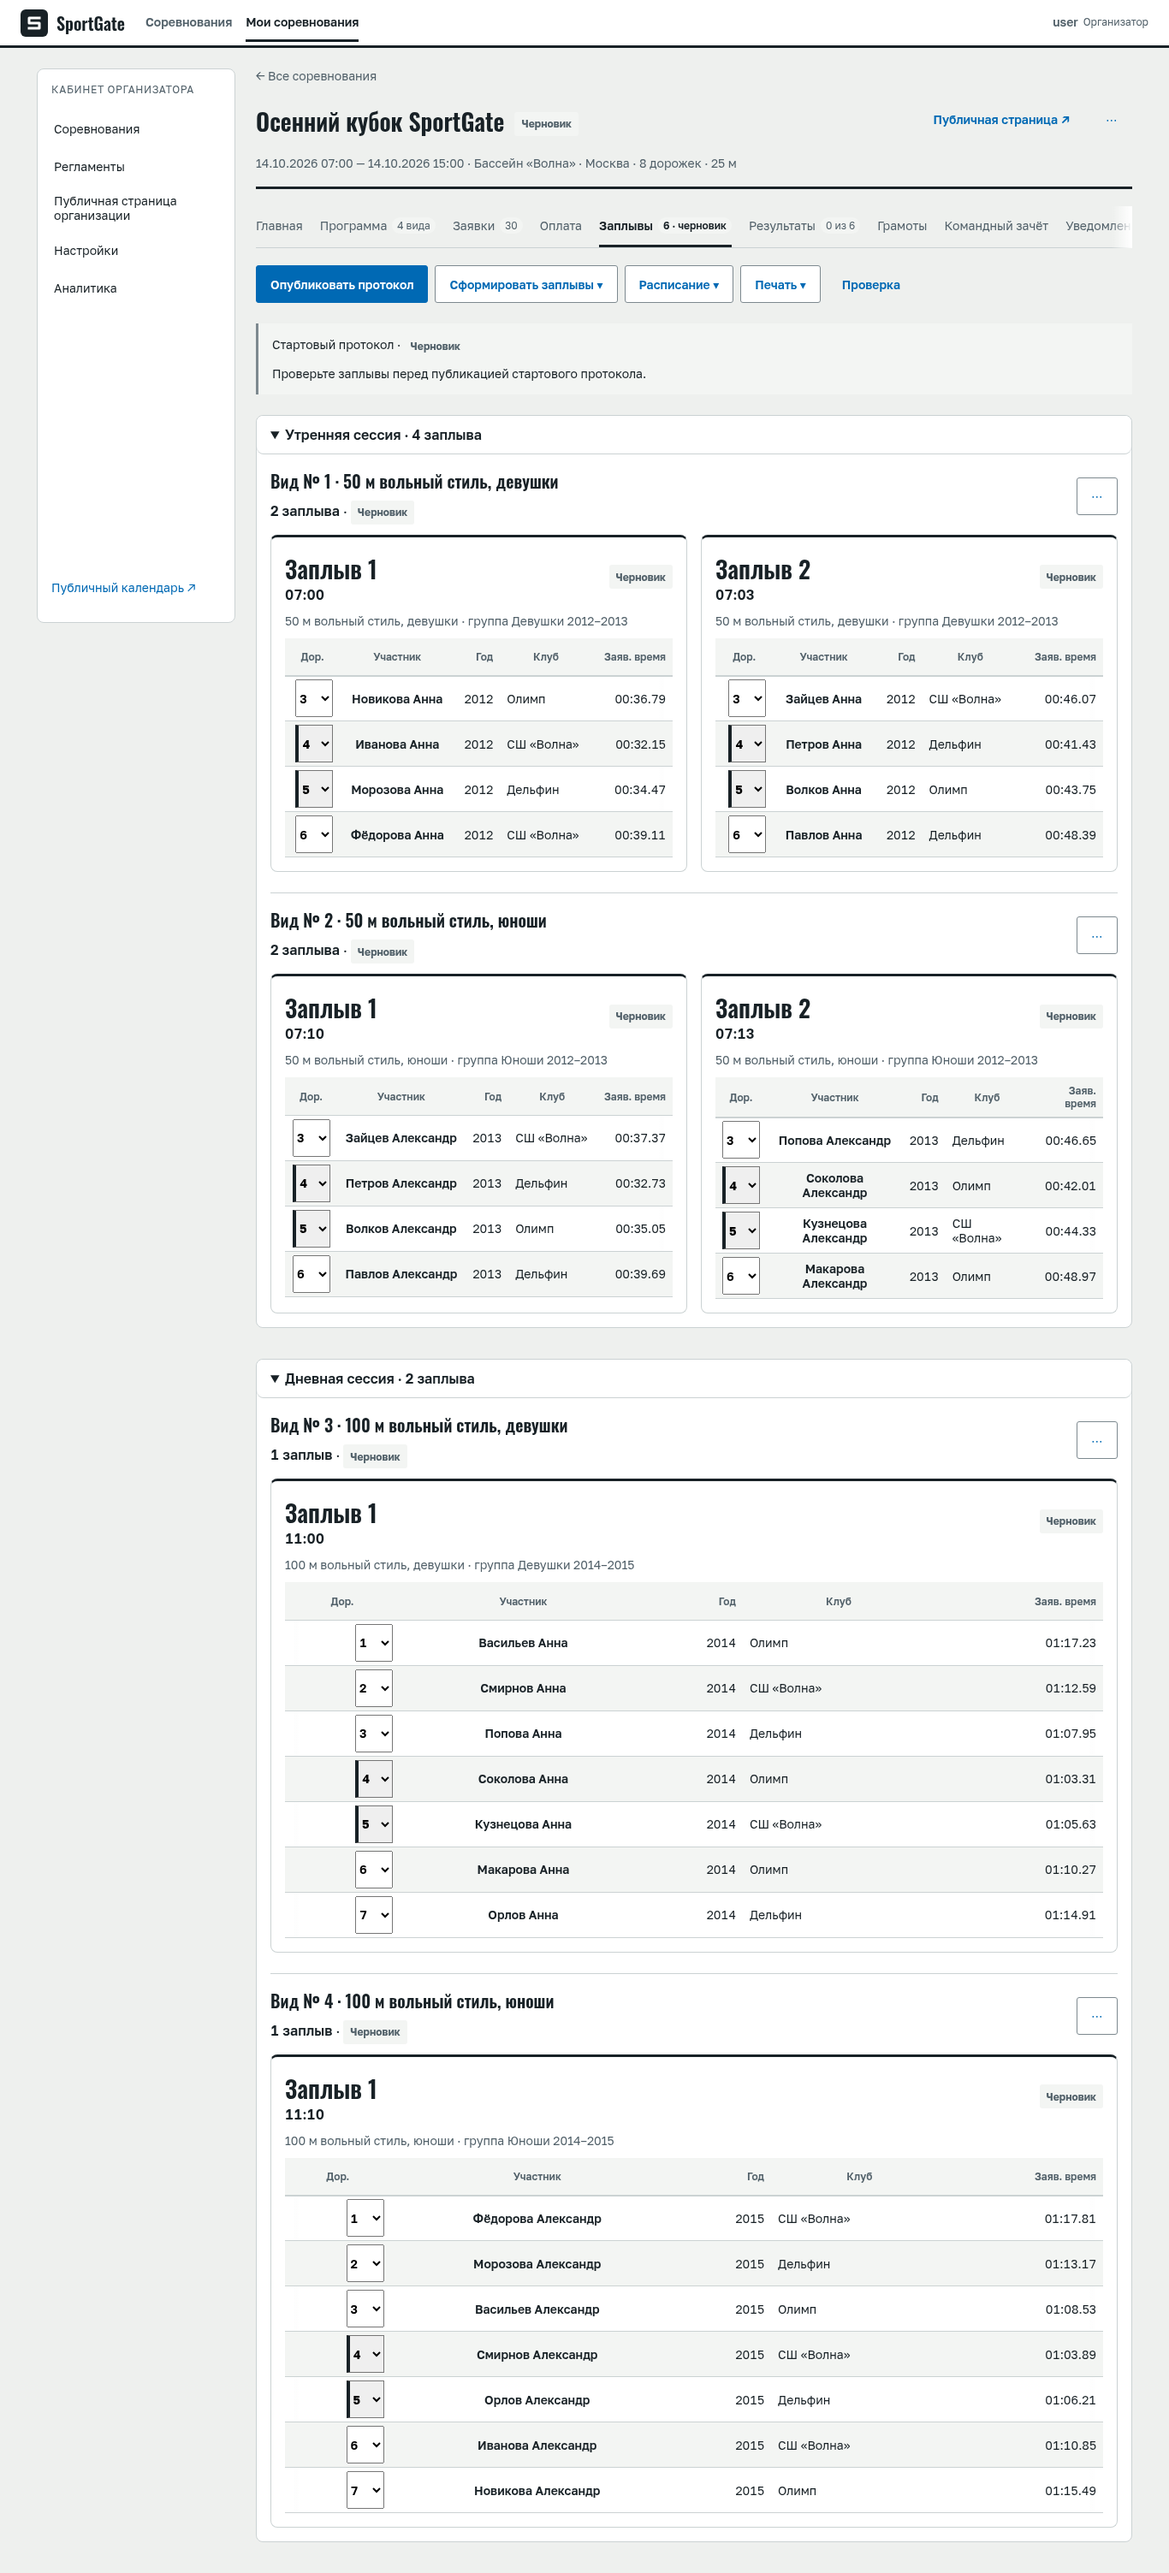
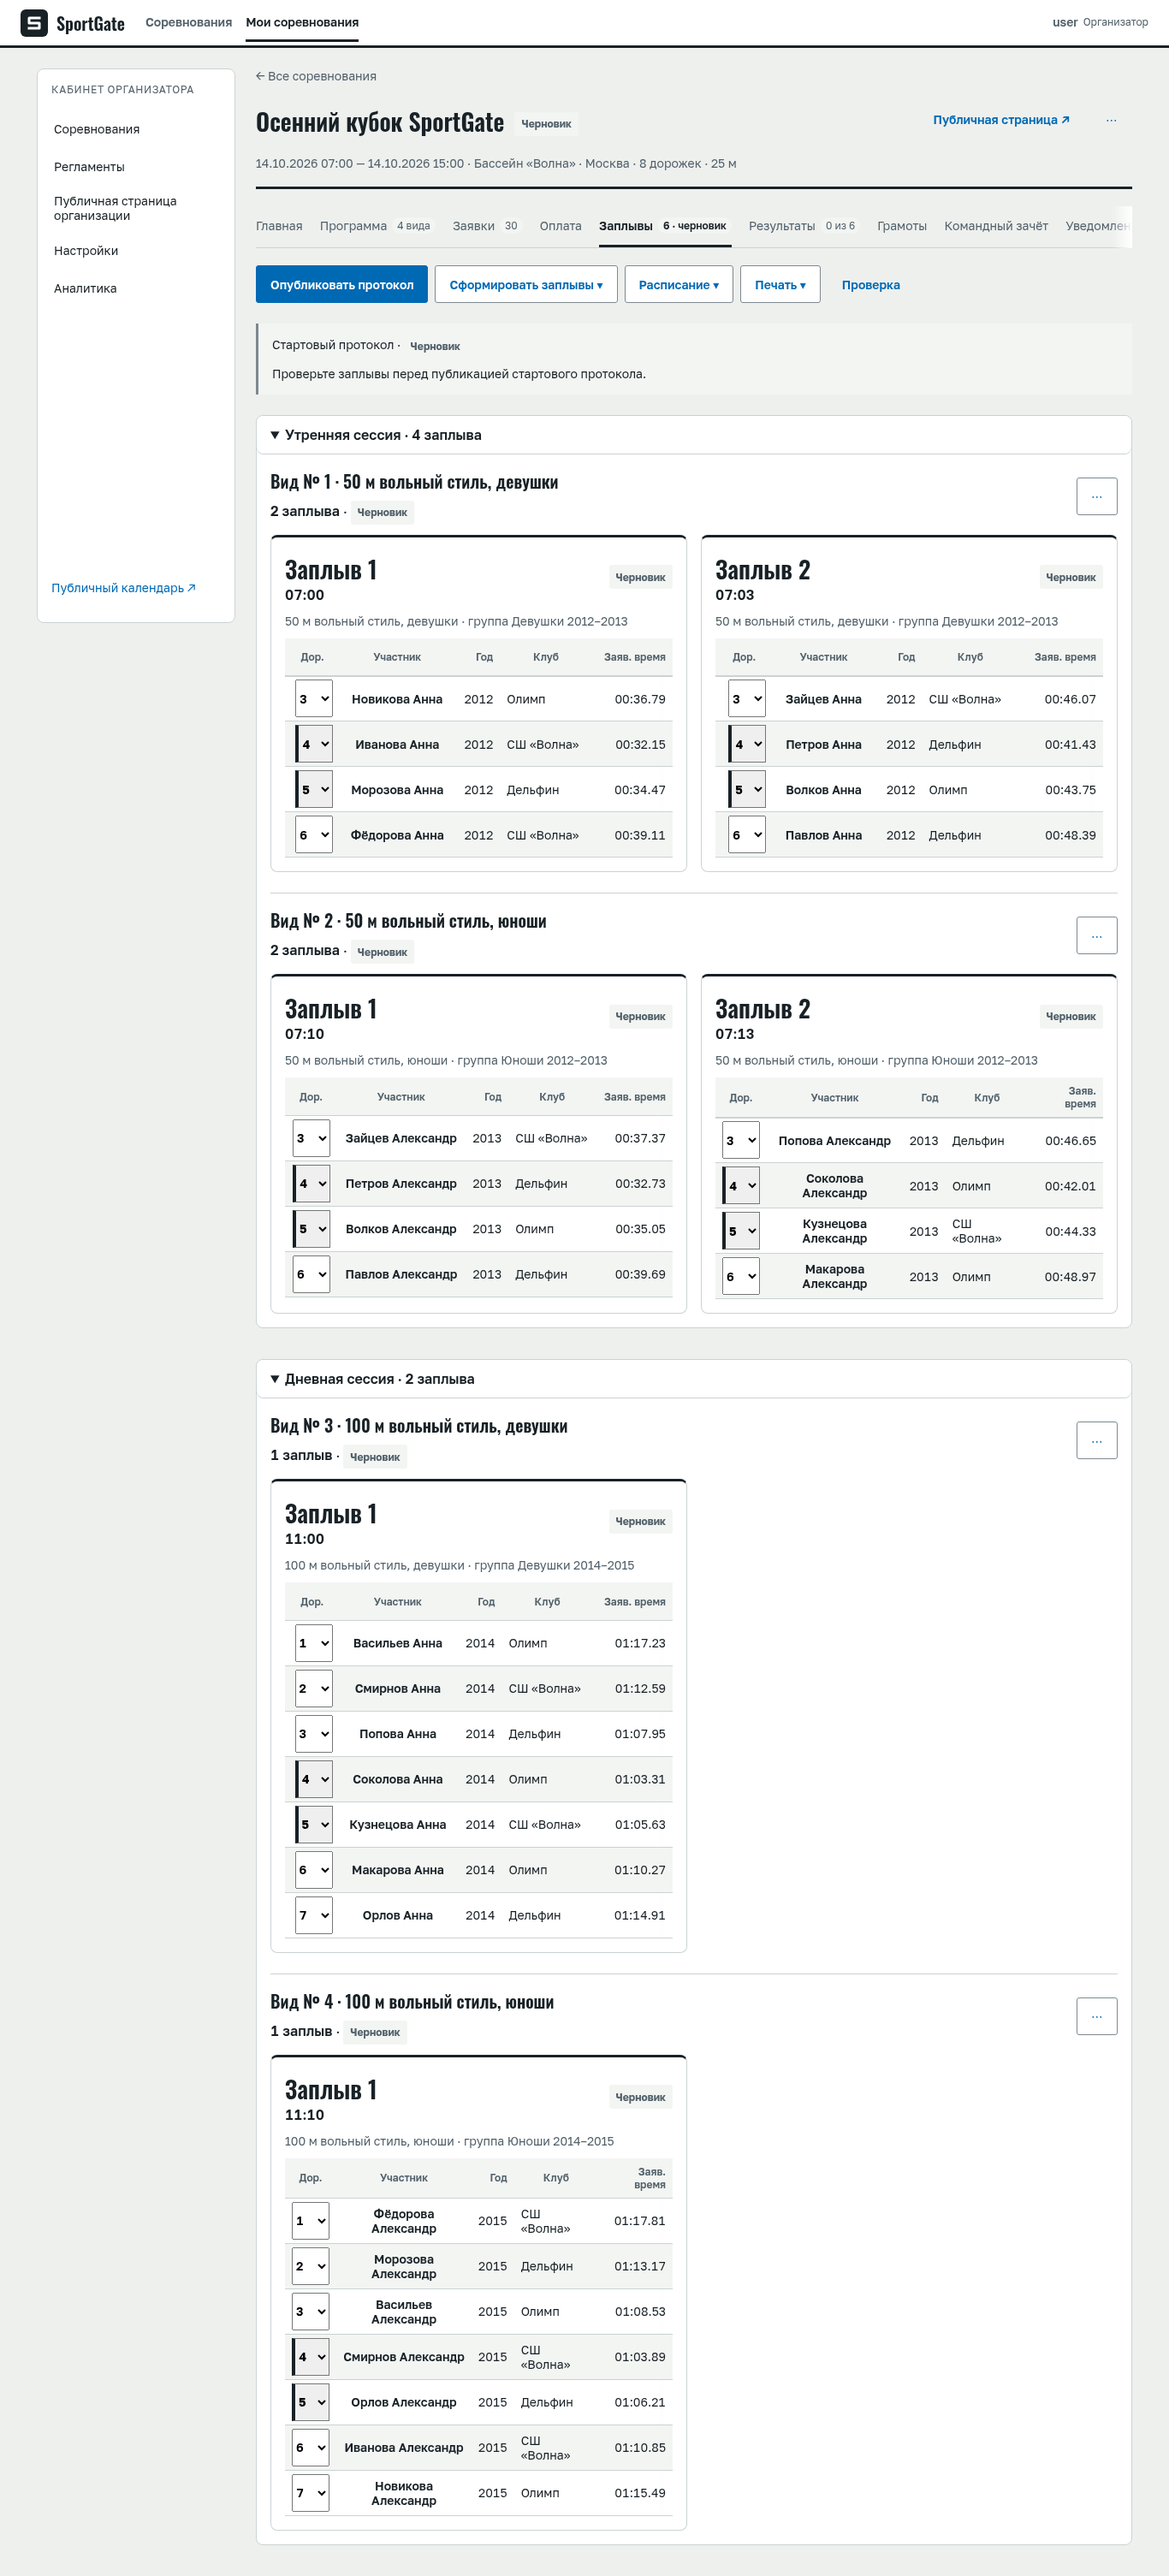
fix(organizer): retain desktop heat grid tracks

diff --git a/sport-platform/frontend/src/features/organizer/Heats.module.css b/sport-platform/frontend/src/features/organizer/Heats.module.css
@@ -17,7 +17,7 @@
 .discipline { min-width: 0; border-top: 1px solid var(--border-subtle); padding-top: var(--space-4); }
 .disciplineHeader, .heatHeader { display: flex; align-items: center; justify-content: space-between; gap: var(--space-3); min-height: var(--control-h-lg); margin-bottom: var(--space-3); }
 .disciplineHeader h2 { font-size: var(--text-lg); margin: 0 0 var(--space-2); overflow-wrap: anywhere; }
-.grid { display: grid; grid-template-columns: repeat(auto-fit, minmax(min(100%, calc(var(--space-11) * 10)), 1fr)); gap: var(--space-4); }
+.grid { display: grid; grid-template-columns: repeat(auto-fill, minmax(min(100%, calc(var(--space-11) * 10)), 1fr)); gap: var(--space-4); }
 .heat { min-width: 0; border: 1px solid var(--border-subtle); border-top: var(--border-width-rule) solid var(--border-rule); border-radius: var(--radius-lg); padding: var(--space-4); background: var(--surface-1); }
 .heatNumber { font-family: var(--font-heading); font-size: var(--text-xl); font-variant-numeric: var(--numeric-variant); margin: 0; }
 .numeric { font-variant-numeric: var(--numeric-variant); white-space: nowrap; text-align: right; font-weight: var(--font-weight-medium); }
